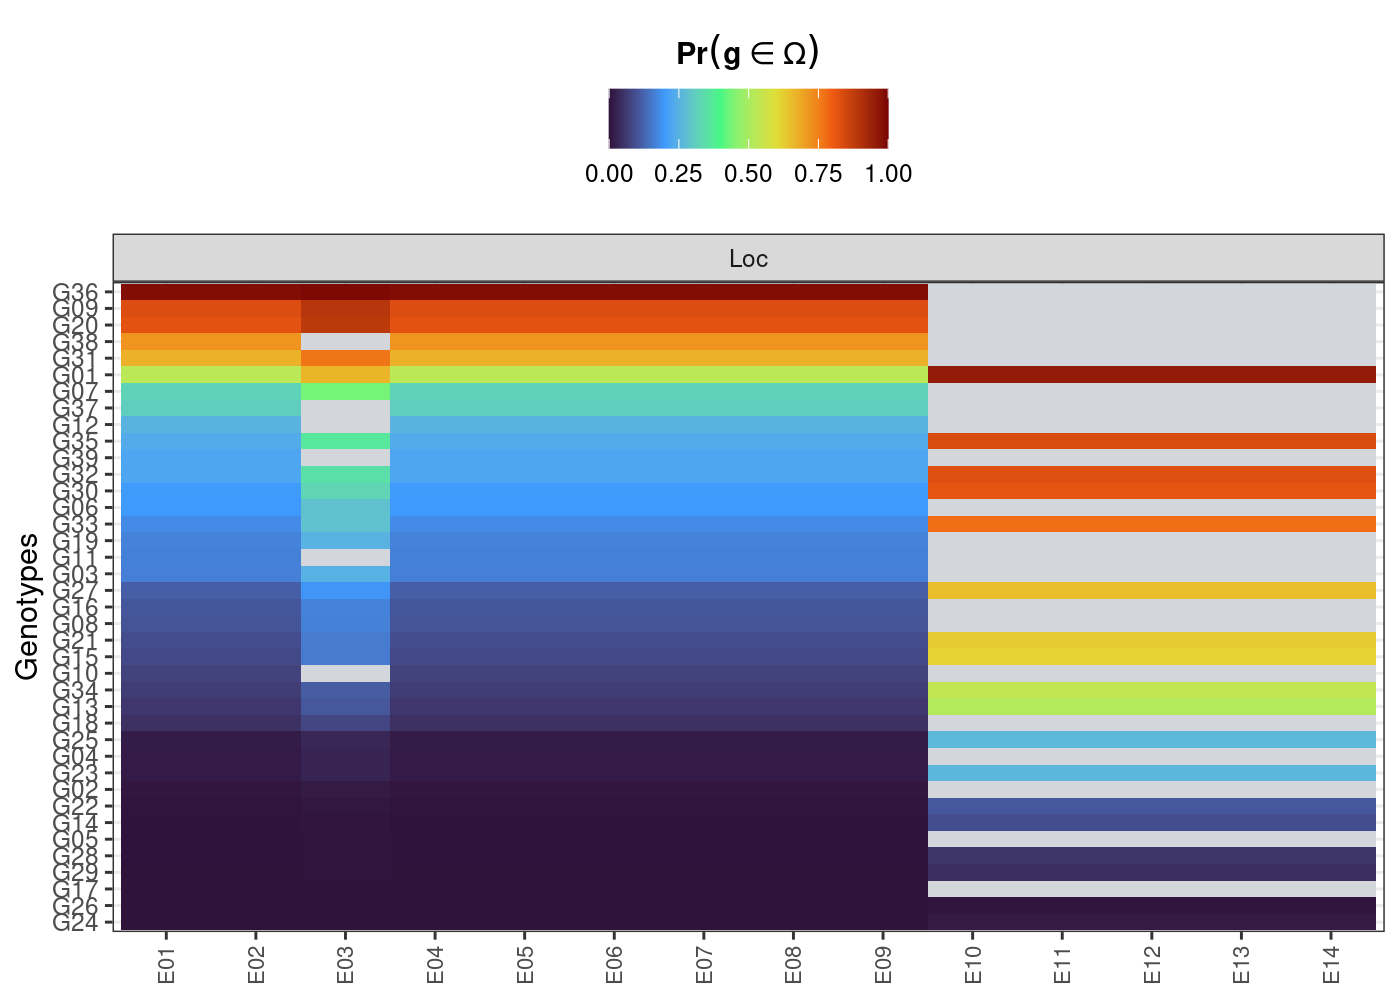
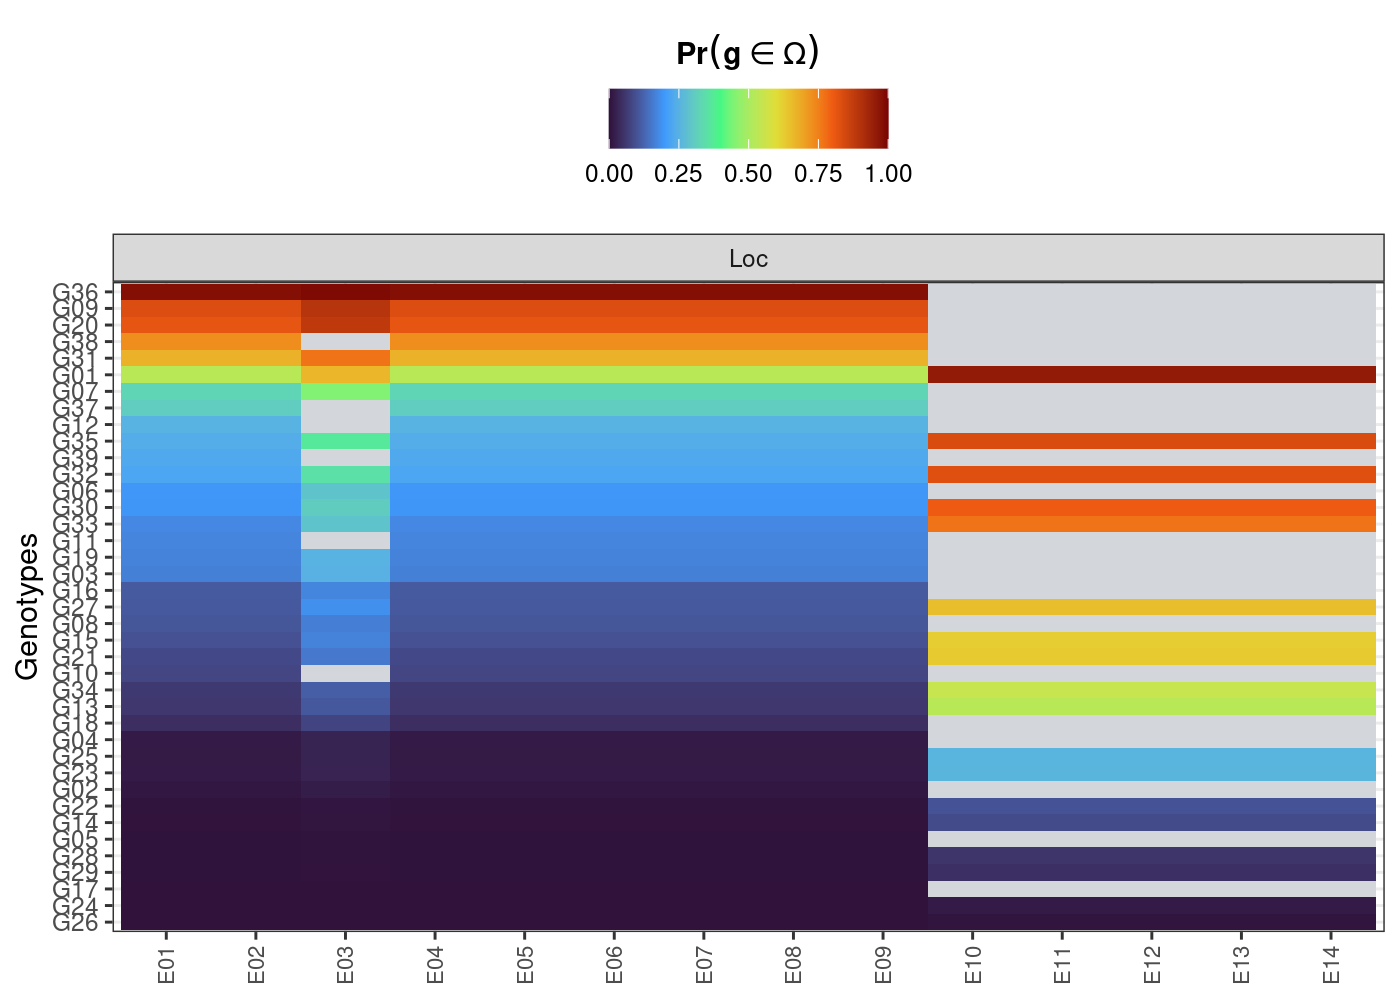
wraping-up version 1.0.4.1

diff --git a/README.md b/README.md
@@ -7,6 +7,7 @@
 
 [![Lifecycle:
 stable](https://img.shields.io/badge/lifecycle-stable-brightgreen.svg)](https://lifecycle.r-lib.org/articles/stages.html#stable)
+[![R-CMD-check](https://github.com/saulo-chaves/ProbBreed/actions/workflows/check-release.yaml/badge.svg)](https://github.com/saulo-chaves/ProbBreed/actions/workflows/check-release.yaml)
 [![CRAN
 status](https://www.r-pkg.org/badges/version/ProbBreed)](https://CRAN.R-project.org/package=ProbBreed)
 [![ProbBreed status
@@ -89,33 +90,33 @@ components and some posterior predictive checks. Here are them:
 ``` r
 outs$variances
 #>         effect     var      sd naive.se HPD_0.05 HPD_0.95
-#> 1          Gen   3.381   1.295    0.012    1.622    5.794
-#> 2          Loc 247.136 131.148    1.197  116.979  474.143
-#> 3   error_env1  10.060   2.716    0.025    6.350   15.090
-#> 4   error_env2  28.760   7.162    0.065   19.053   41.710
-#> 5   error_env3  11.773   3.436    0.031    7.307   18.012
-#> 6   error_env4  18.556   4.928    0.045   12.003   27.531
-#> 7   error_env5  51.396  12.677    0.116   34.404   75.112
-#> 8   error_env6  15.398   3.986    0.036   10.018   22.784
-#> 9   error_env7  19.359   4.845    0.044   12.683   28.259
-#> 10  error_env8  21.205   5.438    0.050   13.893   31.346
-#> 11  error_env9  14.971   3.853    0.035    9.719   22.103
-#> 12 error_env10  13.426   5.648    0.052    6.945   23.900
-#> 13 error_env11  22.025   9.007    0.082   11.667   38.359
-#> 14 error_env12   7.681   3.405    0.031    3.692   14.143
-#> 15 error_env13  14.728   6.150    0.056    7.566   26.174
-#> 16 error_env14  10.867   4.490    0.041    5.600   19.145
+#> 1          Gen   3.396   1.299    0.012    1.641    5.785
+#> 2          Loc 248.539 127.507    1.164  115.950  481.170
+#> 3   error_env1  10.029   2.728    0.025    6.363   14.965
+#> 4   error_env2  28.849   7.225    0.066   18.944   42.313
+#> 5   error_env3  11.657   3.424    0.031    7.222   18.003
+#> 6   error_env4  18.542   4.805    0.044   12.119   27.472
+#> 7   error_env5  51.517  12.889    0.118   34.229   74.745
+#> 8   error_env6  15.476   4.034    0.037   10.080   23.001
+#> 9   error_env7  19.270   4.841    0.044   12.608   28.188
+#> 10  error_env8  21.256   5.437    0.050   13.962   31.129
+#> 11  error_env9  14.802   3.832    0.035    9.678   21.811
+#> 12 error_env10  13.496   5.583    0.051    6.887   23.748
+#> 13 error_env11  21.969   8.980    0.082   11.698   37.850
+#> 14 error_env12   7.749   3.433    0.031    3.712   14.234
+#> 15 error_env13  14.443   5.877    0.054    7.553   25.375
+#> 16 error_env14  10.795   4.452    0.041    5.597   19.389
 outs$ppcheck
 #>                   Diagnostics
-#> p.val_max              0.9190
-#> p.val_min              0.3497
-#> p.val_median           0.7192
-#> p.val_mean             0.5058
-#> p.val_sd               0.5553
-#> Eff_No_parameters     27.5098
-#> WAIC2               2715.7241
-#> mean_Rhat              1.0004
-#> Eff_sample_size        0.6785
+#> p.val_max              0.9178
+#> p.val_min              0.3604
+#> p.val_median           0.7216
+#> p.val_mean             0.5008
+#> p.val_sd               0.5567
+#> Eff_No_parameters     27.5075
+#> WAIC2               2715.4563
+#> mean_Rhat              1.0003
+#> Eff_sample_size        0.6675
 ```
 
 You can also the `plot` S3 method for some useful visualizations. For
@@ -153,29 +154,29 @@ superior performances across and within environments:
 ``` r
 head(results$across$perfo)
 #>     ID      prob
-#> 36 G36 0.9855000
-#> 9  G09 0.8345833
-#> 20 G20 0.8215833
-#> 38 G38 0.7213333
-#> 31 G31 0.6745000
-#> 1  G01 0.5281667
+#> 36 G36 0.9825833
+#> 9  G09 0.8340833
+#> 20 G20 0.8162500
+#> 38 G38 0.7317500
+#> 31 G31 0.6750000
+#> 1  G01 0.5250833
 head(results$within$perfo$gl)
-#>   gen         E01         E02        E03         E04         E05         E06
-#> 1 G01 0.528166667 0.528166667 0.66775000 0.528166667 0.528166667 0.528166667
-#> 2 G02 0.006250000 0.006250000 0.01300000 0.006250000 0.006250000 0.006250000
-#> 3 G03 0.162083333 0.162083333 0.24758333 0.162083333 0.162083333 0.162083333
-#> 4 G04 0.014166667 0.014166667 0.02766667 0.014166667 0.014166667 0.014166667
-#> 5 G05 0.001333333 0.001333333 0.00275000 0.001333333 0.001333333 0.001333333
-#> 6 G06 0.199083333 0.199083333 0.28308333 0.199083333 0.199083333 0.199083333
+#>   gen         E01         E02         E03         E04         E05         E06
+#> 1 G01 0.525083333 0.525083333 0.666333333 0.525083333 0.525083333 0.525083333
+#> 2 G02 0.007833333 0.007833333 0.016333333 0.007833333 0.007833333 0.007833333
+#> 3 G03 0.163333333 0.163333333 0.248666667 0.163333333 0.163333333 0.163333333
+#> 4 G04 0.013750000 0.013750000 0.027000000 0.013750000 0.013750000 0.013750000
+#> 5 G05 0.001083333 0.001083333 0.002583333 0.001083333 0.001083333 0.001083333
+#> 6 G06 0.194500000 0.194500000 0.286833333 0.194500000 0.194500000 0.194500000
 #>           E07         E08         E09       E10       E11       E12       E13
-#> 1 0.528166667 0.528166667 0.528166667 0.9563333 0.9563333 0.9563333 0.9563333
-#> 2 0.006250000 0.006250000 0.006250000        NA        NA        NA        NA
-#> 3 0.162083333 0.162083333 0.162083333        NA        NA        NA        NA
-#> 4 0.014166667 0.014166667 0.014166667        NA        NA        NA        NA
-#> 5 0.001333333 0.001333333 0.001333333        NA        NA        NA        NA
-#> 6 0.199083333 0.199083333 0.199083333        NA        NA        NA        NA
+#> 1 0.525083333 0.525083333 0.525083333 0.9579167 0.9579167 0.9579167 0.9579167
+#> 2 0.007833333 0.007833333 0.007833333        NA        NA        NA        NA
+#> 3 0.163333333 0.163333333 0.163333333        NA        NA        NA        NA
+#> 4 0.013750000 0.013750000 0.013750000        NA        NA        NA        NA
+#> 5 0.001083333 0.001083333 0.001083333        NA        NA        NA        NA
+#> 6 0.194500000 0.194500000 0.194500000        NA        NA        NA        NA
 #>         E14
-#> 1 0.9563333
+#> 1 0.9579167
 #> 2        NA
 #> 3        NA
 #> 4        NA
